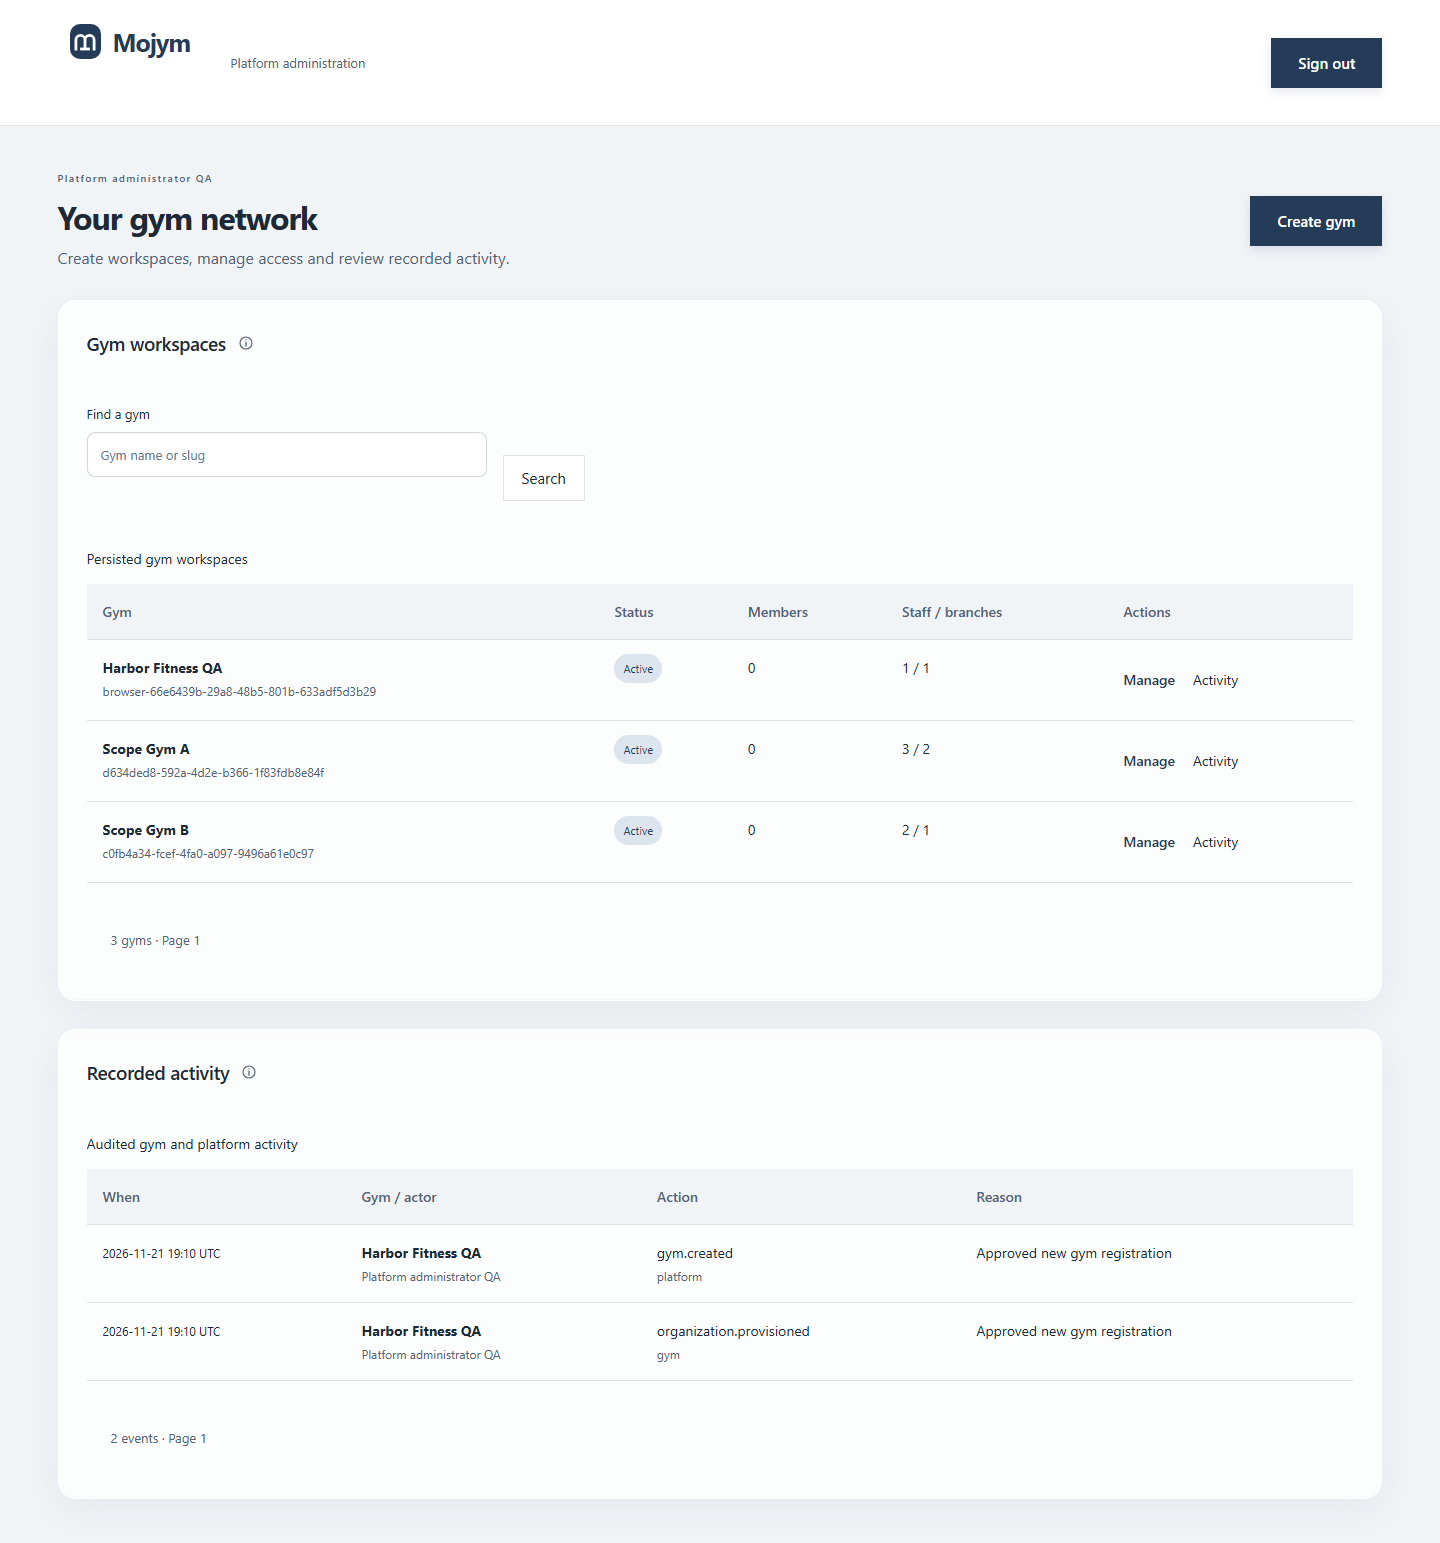
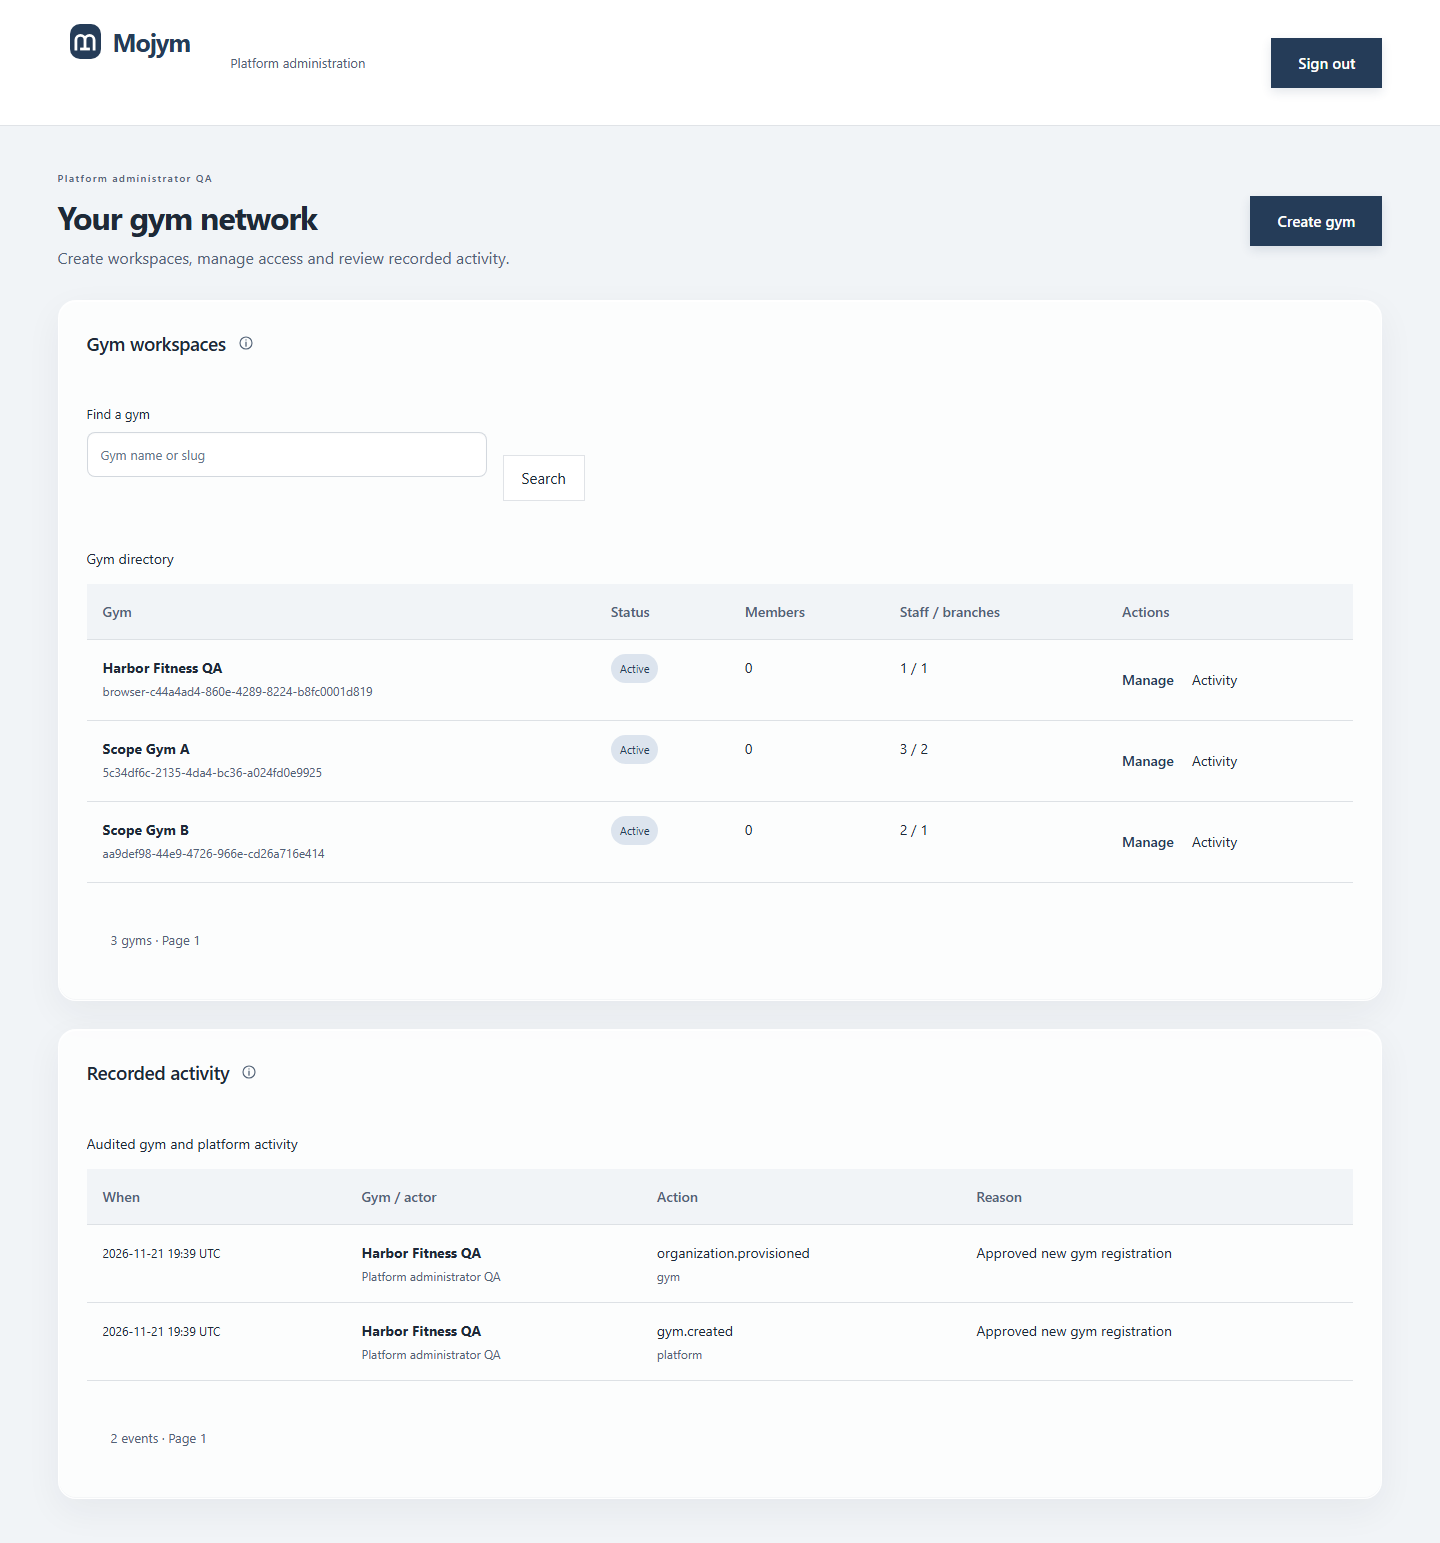
Verify platform contacts, fix directory navigation and harden hosted pool

diff --git a/tests/e2e/profiles.spec.ts b/tests/e2e/profiles.spec.ts
@@ -125,7 +125,7 @@ test("profile, emergency contact and notes persist with responsive reference lay
     .getByRole("link", { name: "View Sara Ahmed", exact: true })
     .click();
   // Next Link completes its click before the streamed client transition commits.
-  await page.waitForURL(url => url.pathname === `/members/${m.id}`);
+  await page.waitForURL((url) => url.pathname === `/members/${m.id}`);
   await expect(
     page.getByRole("heading", { name: "Sara Ahmed", exact: true }),
   ).toBeVisible();
@@ -135,12 +135,28 @@ test("profile, emergency contact and notes persist with responsive reference lay
   await d.getByLabel("Contact phone").fill("03019876543");
   await d.getByLabel("Relationship", { exact: true }).fill("Sibling");
   await d.getByLabel("Reason for change").fill("Record emergency contact");
-  await d.getByRole("button", { name: "Save changes", exact: true }).click();
+  const [contactResponse] = await Promise.all([
+    page.waitForResponse(
+      (response) =>
+        new URL(response.url()).pathname === `/api/members/${m.id}/contact` &&
+        response.request().method() === "PATCH",
+    ),
+    d.getByRole("button", { name: "Save changes", exact: true }).click(),
+  ]);
+  expect(contactResponse.status()).toBe(200);
   await expect(d).toHaveCount(0);
   await page
     .getByLabel("New operational note")
     .fill("Prefers evening appointments. Contact before rescheduling.");
-  await page.getByRole("button", { name: "Add note", exact: true }).click();
+  const [noteResponse] = await Promise.all([
+    page.waitForResponse(
+      (response) =>
+        new URL(response.url()).pathname === `/api/members/${m.id}/notes` &&
+        response.request().method() === "POST",
+    ),
+    page.getByRole("button", { name: "Add note", exact: true }).click(),
+  ]);
+  expect(noteResponse.status()).toBe(200);
   await expect(page.locator(".note-body")).toContainText("Prefers evening");
   await page.reload();
   await expect(page.getByText("Amina Ahmed", { exact: true })).toBeVisible();
@@ -256,7 +272,9 @@ test("archive preserves notes/contact, blocks changes and can be restored throug
     "History to preserve",
   );
   await expect(
-    page.locator('.profile-overview').getByText("Blocked: archived member", { exact: true }),
+    page
+      .locator(".profile-overview")
+      .getByText("Blocked: archived member", { exact: true }),
   ).toBeVisible();
   await page.setViewportSize({ width: 390, height: 1000 });
   await page.screenshot({
@@ -295,7 +313,11 @@ test("archive preserves notes/contact, blocks changes and can be restored throug
   await expect(page.locator(".profile-note-list")).toContainText(
     "History to preserve",
   );
-  await expect(page.locator(".profile-overview").getByText("Not enrolled", { exact: true })).toBeVisible();
+  await expect(
+    page
+      .locator(".profile-overview")
+      .getByText("Not enrolled", { exact: true }),
+  ).toBeVisible();
 });
 test("stale contact edits keep input and a committed note with failed refresh needs reload", async ({
   page,

diff --git a/src/modules/billing/pdf.ts b/src/modules/billing/pdf.ts
@@ -71,6 +71,8 @@ export function invoicePdf(data: InvoiceDetail): Promise<Buffer> {
           : "-";
       }
       function heading(continued = false) {
+        const title = i.status === "void" ? "VOID INVOICE" : "INVOICE";
+        const titleSize = continued ? 16 : i.status === "void" ? 20 : 24;
         text(
           data.issuer.name,
           44,
@@ -81,19 +83,20 @@ export function invoicePdf(data: InvoiceDetail): Promise<Buffer> {
           "#253C58",
         );
         text(
-          i.status === "void" ? "VOID INVOICE" : "INVOICE",
+          title,
           390,
           46,
           161,
-          continued ? 16 : 24,
+          titleSize,
           true,
           "#1E2937",
           "right",
         );
-        text(i.number!, 350, 82, 201, 10, true, "#253C58", "right");
+        const numberY = Math.max(82, 46 + height(title, 161, titleSize, true) + 10);
+        text(i.number!, 350, numberY, 201, 10, true, "#253C58", "right");
         if (continued)
           return Math.max(
-            111,
+            numberY + 29,
             44 + height(data.issuer.name, 330, 15, true) + 15,
           );
         let y = Math.max(85, 44 + height(data.issuer.name, 330, 23, true) + 12);
@@ -104,7 +107,7 @@ export function invoicePdf(data: InvoiceDetail): Promise<Buffer> {
           text(v, 44, y, 300, 9, false, "#526276");
           y += height(v, 300, 9) + 5;
         }
-        y = Math.max(y + 22, 135);
+        y = Math.max(y + 22, numberY + 42, 135);
         text("BILL TO", 44, y, 290, 8, true, "#526276");
         text("ISSUED", 365, y, 90, 8, true, "#526276");
         text("DUE", 460, y, 91, 8, true, "#526276");
@@ -234,7 +237,9 @@ export function invoicePdf(data: InvoiceDetail): Promise<Buffer> {
       );
       y += 69;
       const note =
-        "This invoice records a charge. It is not proof of payment. Payment collection and paid receipts are separate.";
+        i.status === "void"
+          ? "This invoice has been voided. Its original amount is shown for reference; no payment is due."
+          : "This invoice records a charge. It is not proof of payment. Payment collection and paid receipts are separate.";
       const fh = height(note, W, 9) + height(data.issuer.footer, W, 9) + 20;
       if (y + fh > 744) {
         doc.addPage();

diff --git a/tests/e2e/platform.spec.ts b/tests/e2e/platform.spec.ts
@@ -41,16 +41,14 @@ async function loginCookies(key: string, email: string, password: string) {
 }
 async function session(page: Page, key: string) {
   await page.context().clearCookies();
-  await page
-    .context()
-    .addCookies(
-      cookies[key].map((c) => ({
-        ...c,
-        url: base,
-        httpOnly: true,
-        sameSite: "Lax" as const,
-      })),
-    );
+  await page.context().addCookies(
+    cookies[key].map((c) => ({
+      ...c,
+      url: base,
+      httpOnly: true,
+      sameSite: "Lax" as const,
+    })),
+  );
 }
 test.beforeAll(async () => {
   await admin.connect();
@@ -158,7 +156,9 @@ test("new gym safely replays a lost response; manage suspension, activity and re
   await page.getByRole("button", { name: "Create gym", exact: true }).click();
   const drawer = page.getByRole("dialog");
   await drawer.getByLabel("Gym name", { exact: true }).fill(name);
-  await drawer.getByLabel("Gym email",{exact:true}).fill("contact@example.invalid");
+  await drawer
+    .getByLabel("Gym email", { exact: true })
+    .fill("contact@example.invalid");
   await drawer.getByLabel("Gym contact number").fill("03001234567");
   await drawer.getByLabel("Gym address").fill("Lahore test gym address");
   await drawer.getByLabel("Gym slug").fill(slug);
@@ -228,11 +228,9 @@ test("new gym safely replays a lost response; manage suspension, activity and re
     drawer.getByRole("heading", { name: "Workspace saved" }),
   ).toBeVisible();
   await drawer.getByRole("button", { name: "Done", exact: true }).click();
-  const row = page
-    .getByRole("row")
-    .filter({
-      has: page.getByRole("button", { name: `Manage ${name}`, exact: true }),
-    });
+  const row = page.getByRole("row").filter({
+    has: page.getByRole("button", { name: `Manage ${name}`, exact: true }),
+  });
   await expect(row.getByText("Suspended", { exact: true })).toBeVisible();
   await loginCookies("new-owner", ownerEmail, ownerPassword);
   await session(page, "new-owner");

diff --git a/src/modules/platform/service.ts b/src/modules/platform/service.ts
@@ -236,7 +236,14 @@ export function createPlatformService(
         });
         await db.query(
           "insert into gym.organizations(id,name,slug,email,phone,address) values($1,$2,$3,$4,$5,$6)",
-          [id, input.name, input.slug, input.email || input.ownerEmail, input.phone, input.address],
+          [
+            id,
+            input.name,
+            input.slug,
+            input.email || input.ownerEmail,
+            input.phone,
+            input.address,
+          ],
         );
         const branch = (
           await db.query(
@@ -273,7 +280,12 @@ export function createPlatformService(
             "CONFLICT",
             "This gym changed since you opened it. Reload before saving.",
           );
-        before = {name:org.name,slug:org.slug,active:org.active,version:org.version};
+        before = {
+          name: org.name,
+          slug: org.slug,
+          active: org.active,
+          version: org.version,
+        };
         after = {
           name: input.name,
           slug: org.slug,
@@ -282,7 +294,14 @@ export function createPlatformService(
         };
         await db.query(
           "update gym.organizations set name=$1,active=$2,email=$4,phone=$5,address=$6,settings_version=settings_version+1 where id=$3",
-          [input.name, input.active, id, input.email ?? org.email, input.phone ?? org.phone, input.address ?? org.address],
+          [
+            input.name,
+            input.active,
+            id,
+            input.email ?? org.email,
+            input.phone ?? org.phone,
+            input.address ?? org.address,
+          ],
         );
       }
       await db.query(

diff --git a/src/modules/members/members-screen.tsx b/src/modules/members/members-screen.tsx
@@ -31,7 +31,9 @@ export function MembersScreen({ initial }: { initial: Directory }) {
     [reloadRequired, setReloadRequired] = useState(false),
     [editor, setEditor] = useState<{ record?: Member } | null>(null),
     [revision, setRevision] = useState(0);
-  const skipFirst = useRef(true);
+  const lastRequest = useRef(
+    JSON.stringify({ query: initial.query, revision: 0 }),
+  );
   useEffect(() => {
     const timer = setTimeout(
       () =>
@@ -43,10 +45,11 @@ export function MembersScreen({ initial }: { initial: Directory }) {
     return () => clearTimeout(timer);
   }, [search]);
   useEffect(() => {
-    if (skipFirst.current) {
-      skipFirst.current = false;
-      return;
-    }
+    // Both initial Strict Mode effect setups already have the server data.
+    // An unnecessary hydration fetch can rewrite history during a profile link transition.
+    const request = JSON.stringify({ query, revision });
+    if (request === lastRequest.current) return;
+    lastRequest.current = request;
     const controller = new AbortController();
     setLoading(true);
     setListError("");
@@ -58,7 +61,11 @@ export function MembersScreen({ initial }: { initial: Directory }) {
         const result = await response.json();
         if (!response.ok)
           throw new Error(result.error?.message ?? "Could not load members.");
-        if (controller.signal.aborted) return;
+        if (
+          controller.signal.aborted ||
+          window.location.pathname !== "/members"
+        )
+          return;
         setData(result.data);
         setReloadRequired(false);
         window.history.replaceState(

diff --git a/src/modules/platform/platform-screen.tsx b/src/modules/platform/platform-screen.tsx
@@ -77,7 +77,7 @@ export function PlatformScreen({ initial }: { initial: PlatformData }) {
               </Link>
             ) : null}
           </Form>
-          <Table caption="Persisted gym workspaces">
+          <Table caption="Gym directory">
             <thead>
               <tr>
                 <th>Gym</th>
@@ -372,9 +372,32 @@ function GymEditor({
                 maxLength={100}
               />
             </label>
-            <label>Gym email<input name="email" type="email" defaultValue={creating?"":gym.email}/></label>
-            <label>Gym contact number<input name="phone" type="tel" maxLength={40} defaultValue={creating?"":gym.phone}/></label>
-            <label>Gym address<textarea name="address" maxLength={500} rows={3} defaultValue={creating?"":gym.address}/></label>
+            <label>
+              Gym email
+              <input
+                name="email"
+                type="email"
+                defaultValue={creating ? "" : gym.email}
+              />
+            </label>
+            <label>
+              Gym contact number
+              <input
+                name="phone"
+                type="tel"
+                maxLength={40}
+                defaultValue={creating ? "" : gym.phone}
+              />
+            </label>
+            <label>
+              Gym address
+              <textarea
+                name="address"
+                maxLength={500}
+                rows={3}
+                defaultValue={creating ? "" : gym.address}
+              />
+            </label>
             {creating ? (
               <>
                 <label>

diff --git a/src/server/security/http.ts b/src/server/security/http.ts
@@ -22,13 +22,17 @@ export function accessFailure(error: unknown) {
   console.error("Protected operation failed", {
     requestId,
     code:
-      error instanceof Error && "code" in error && typeof error.code === "string" && /^[A-Z0-9_]{3,40}$/.test(error.code)
+      error instanceof Error &&
+      "code" in error &&
+      typeof error.code === "string" &&
+      /^[A-Z0-9_]{3,40}$/.test(error.code)
         ? error.code
         : "DEPENDENCY_ERROR",
     category:
       error instanceof Error && /timeout/i.test(error.message)
         ? "timeout"
-        : error instanceof Error && error.message === "Unsafe database runtime role"
+        : error instanceof Error &&
+            error.message === "Unsafe database runtime role"
           ? "runtime_role"
           : "dependency",
   });

diff --git a/src/server/db/index.ts b/src/server/db/index.ts
@@ -15,9 +15,17 @@ export function createDatabase() {
   }
   const pool = new Pool({
     ...databaseConnection(env.DATABASE_URL, process.env.DATABASE_SSL_CA_BASE64),
-    max: process.env.VERCEL === "1" ? 1 : 5,
+    max: process.env.VERCEL === "1" ? 2 : 5,
     idleTimeoutMillis: 10000,
-    connectionTimeoutMillis: 10000,
+    connectionTimeoutMillis: 15000,
+  });
+  pool.on("error", (error) => {
+    console.error("Database connection closed unexpectedly", {
+      code:
+        "code" in error && typeof error.code === "string"
+          ? error.code
+          : "CONNECTION_ERROR",
+    });
   });
   shared.mojymDatabase = { url: env.DATABASE_URL, db: drizzle(pool), pool };
   return { db: shared.mojymDatabase.db, pool: shared.mojymDatabase.pool };

diff --git a/scripts/bootstrap-platform-admin.ts b/scripts/bootstrap-platform-admin.ts
@@ -3,8 +3,14 @@ import pg from "pg";
 import { databaseConnection } from "./database-connection.mjs";
 import { bootstrapPlatformAdmin } from "../src/server/platform/bootstrap";
 config({ path: ".env.local", quiet: true });
-if (!process.env.MIGRATION_DATABASE_URL || !process.env.BETTER_AUTH_SECRET || !process.env.APP_URL)
-  throw new Error("Missing operator database, authentication secret or app URL configuration");
+if (
+  !process.env.MIGRATION_DATABASE_URL ||
+  !process.env.BETTER_AUTH_SECRET ||
+  !process.env.APP_URL
+)
+  throw new Error(
+    "Missing operator database, authentication secret or app URL configuration",
+  );
 const db = new pg.Client(
   databaseConnection(
     process.env.MIGRATION_DATABASE_URL!,

diff --git a/scripts/bootstrap-owner.ts b/scripts/bootstrap-owner.ts
@@ -15,8 +15,14 @@ if (
   !process.env.APP_URL
 )
   throw new Error("Missing administrative setup configuration");
-if (!['localhost', '127.0.0.1', '[::1]'].includes(new URL(process.env.MIGRATION_DATABASE_URL).hostname))
-  throw new Error("Local owner bootstrap requires a local database. Use the platform console for hosted gym provisioning.");
+if (
+  !["localhost", "127.0.0.1", "[::1]"].includes(
+    new URL(process.env.MIGRATION_DATABASE_URL).hostname,
+  )
+)
+  throw new Error(
+    "Local owner bootstrap requires a local database. Use the platform console for hosted gym provisioning.",
+  );
 const client = new pg.Client({
   connectionString: process.env.MIGRATION_DATABASE_URL,
 });

diff --git a/tests/integration/platform.ts b/tests/integration/platform.ts
@@ -174,9 +174,9 @@ try {
   });
   assert.equal(data.total, 1);
   assert.equal(data.gyms[0].staff, 1);
-  assert.equal(data.gyms[0].email,payload.email);
-  assert.equal(data.gyms[0].phone,payload.phone);
-  assert.equal(data.gyms[0].address,payload.address);
+  assert.equal(data.gyms[0].email, payload.email);
+  assert.equal(data.gyms[0].phone, payload.phone);
+  assert.equal(data.gyms[0].address, payload.address);
   assert.ok(data.events.some((e) => e.action === "gym.created"));
   assert.ok(!JSON.stringify(data).includes(payload.password));
   const freshOwner = await login(payload.ownerEmail, payload.password);

diff --git a/src/app/members/page.tsx b/src/app/members/page.tsx
@@ -35,5 +35,5 @@ export default async function MembersPage({
     }
     throw error;
   }
-  return <MembersScreen initial={initial} />;
+  return <MembersScreen key={initial.requestId} initial={initial} />;
 }
